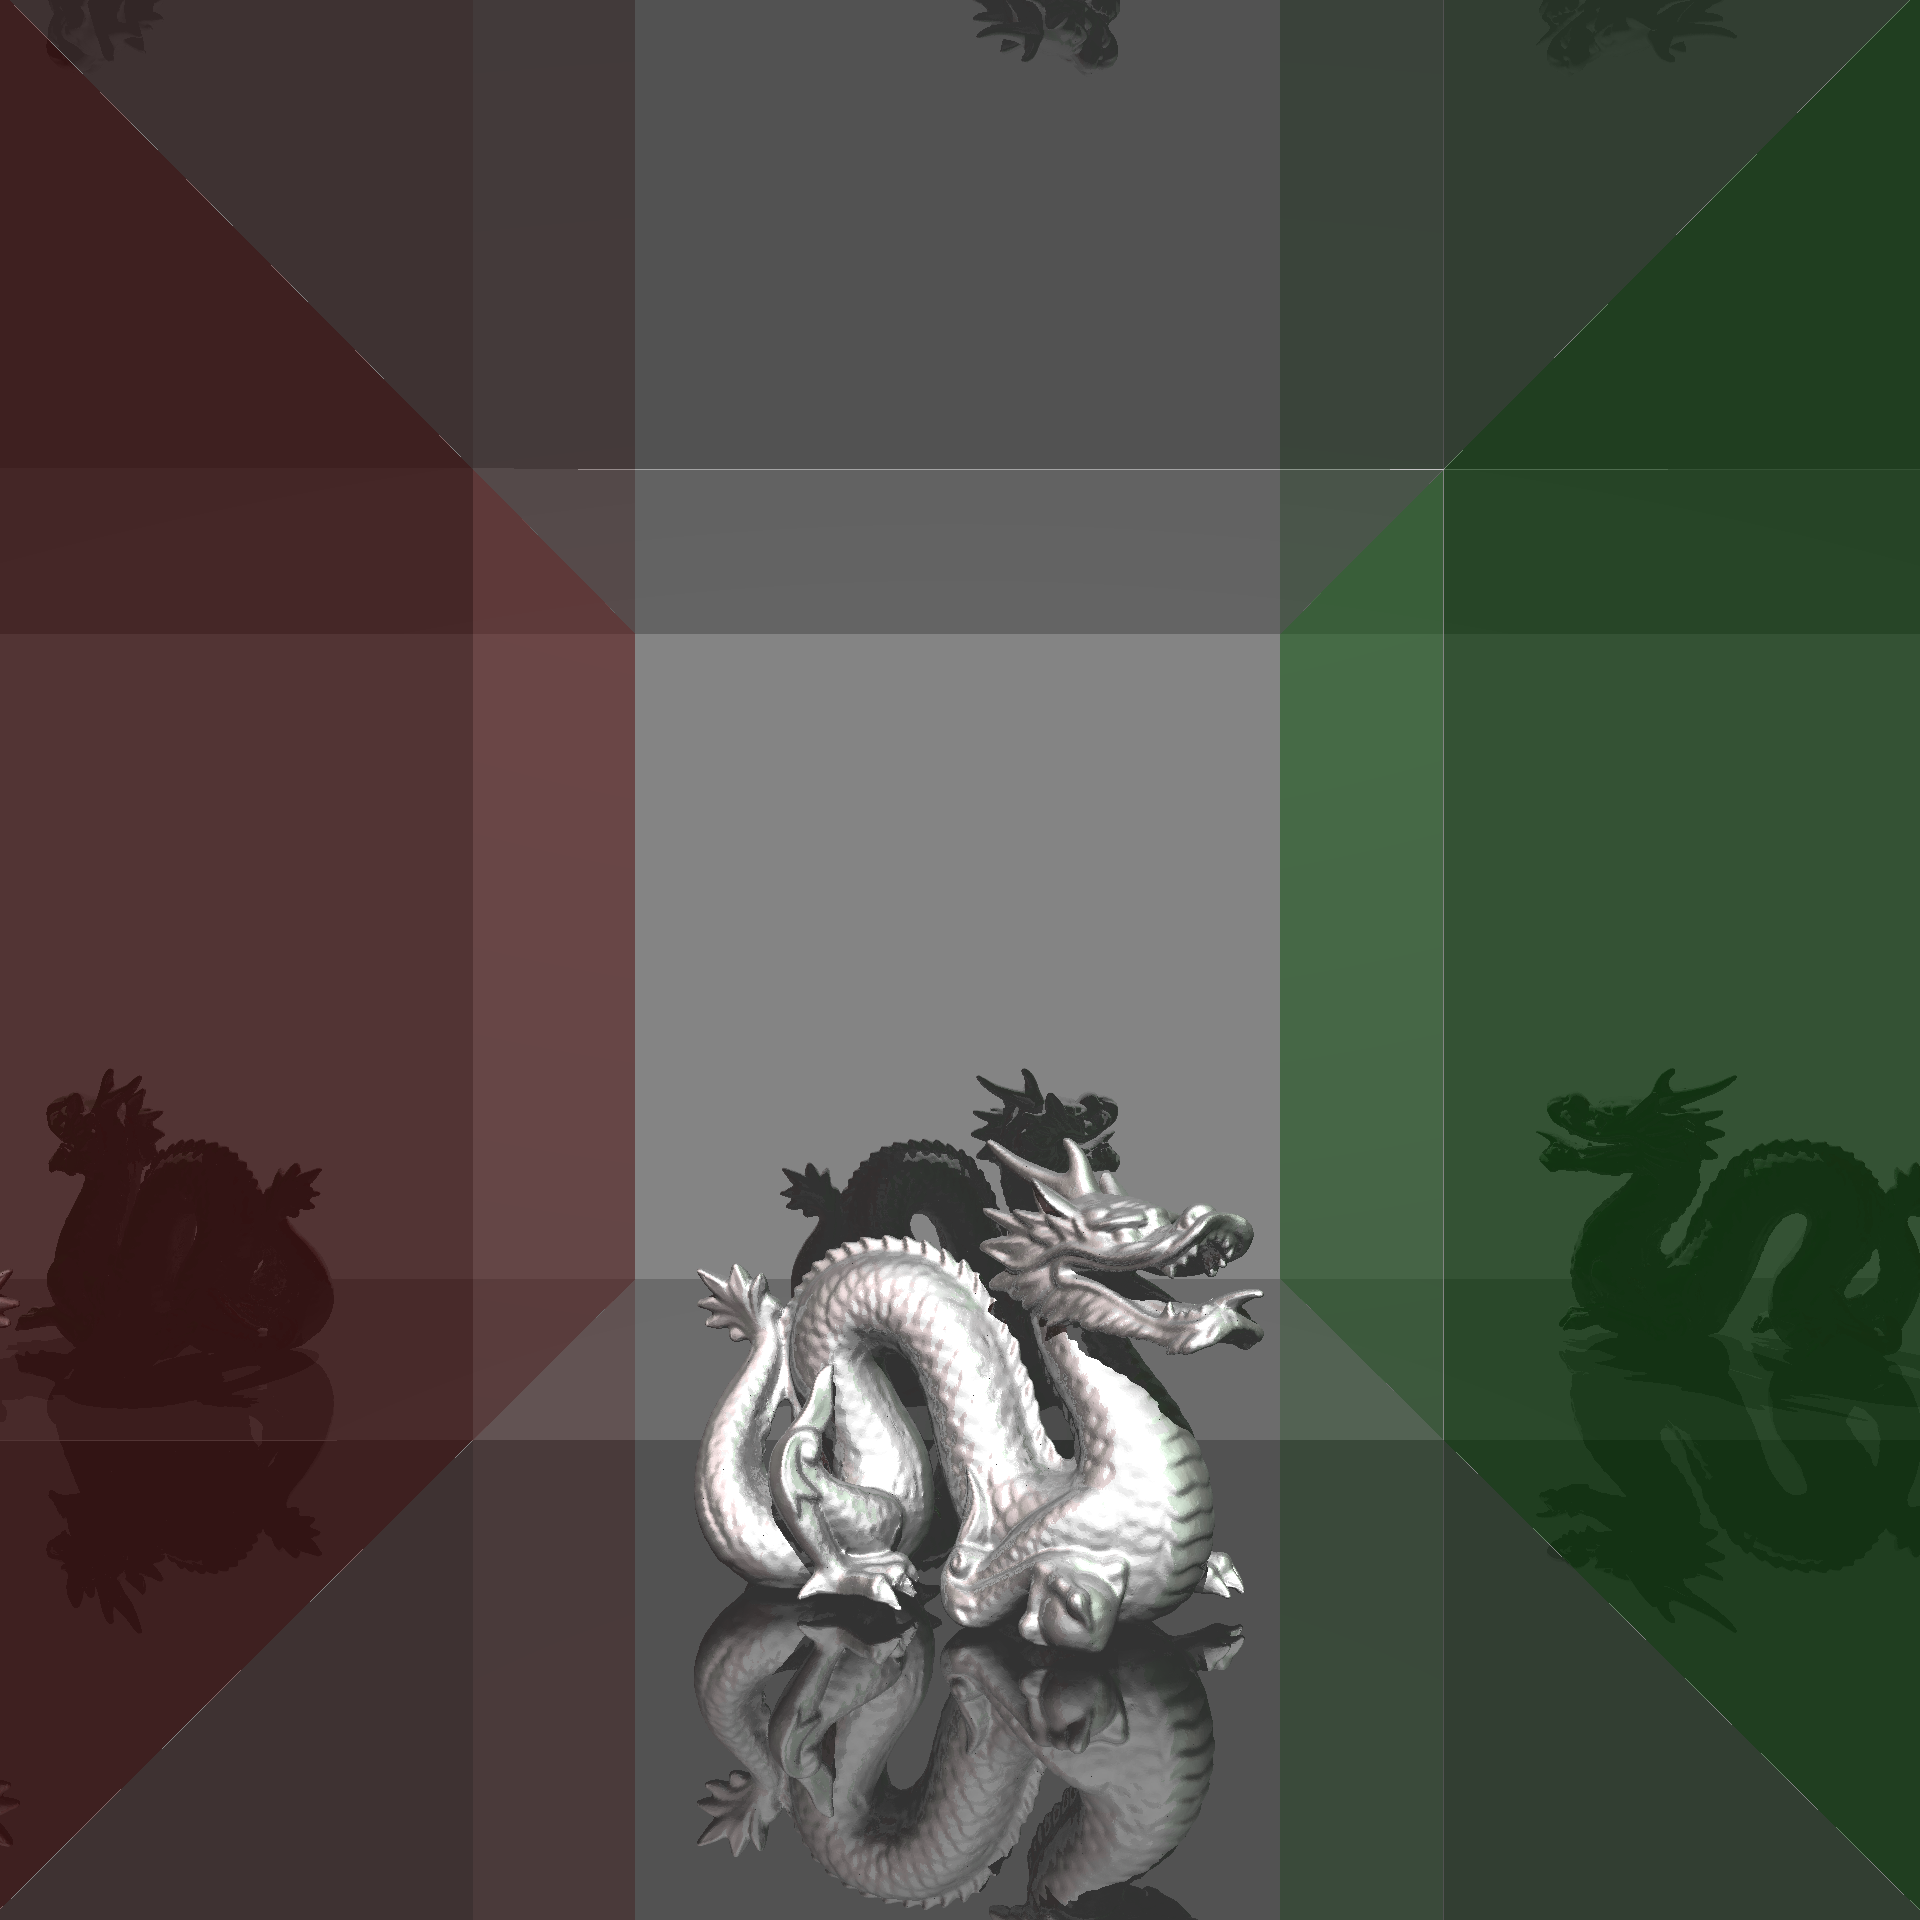
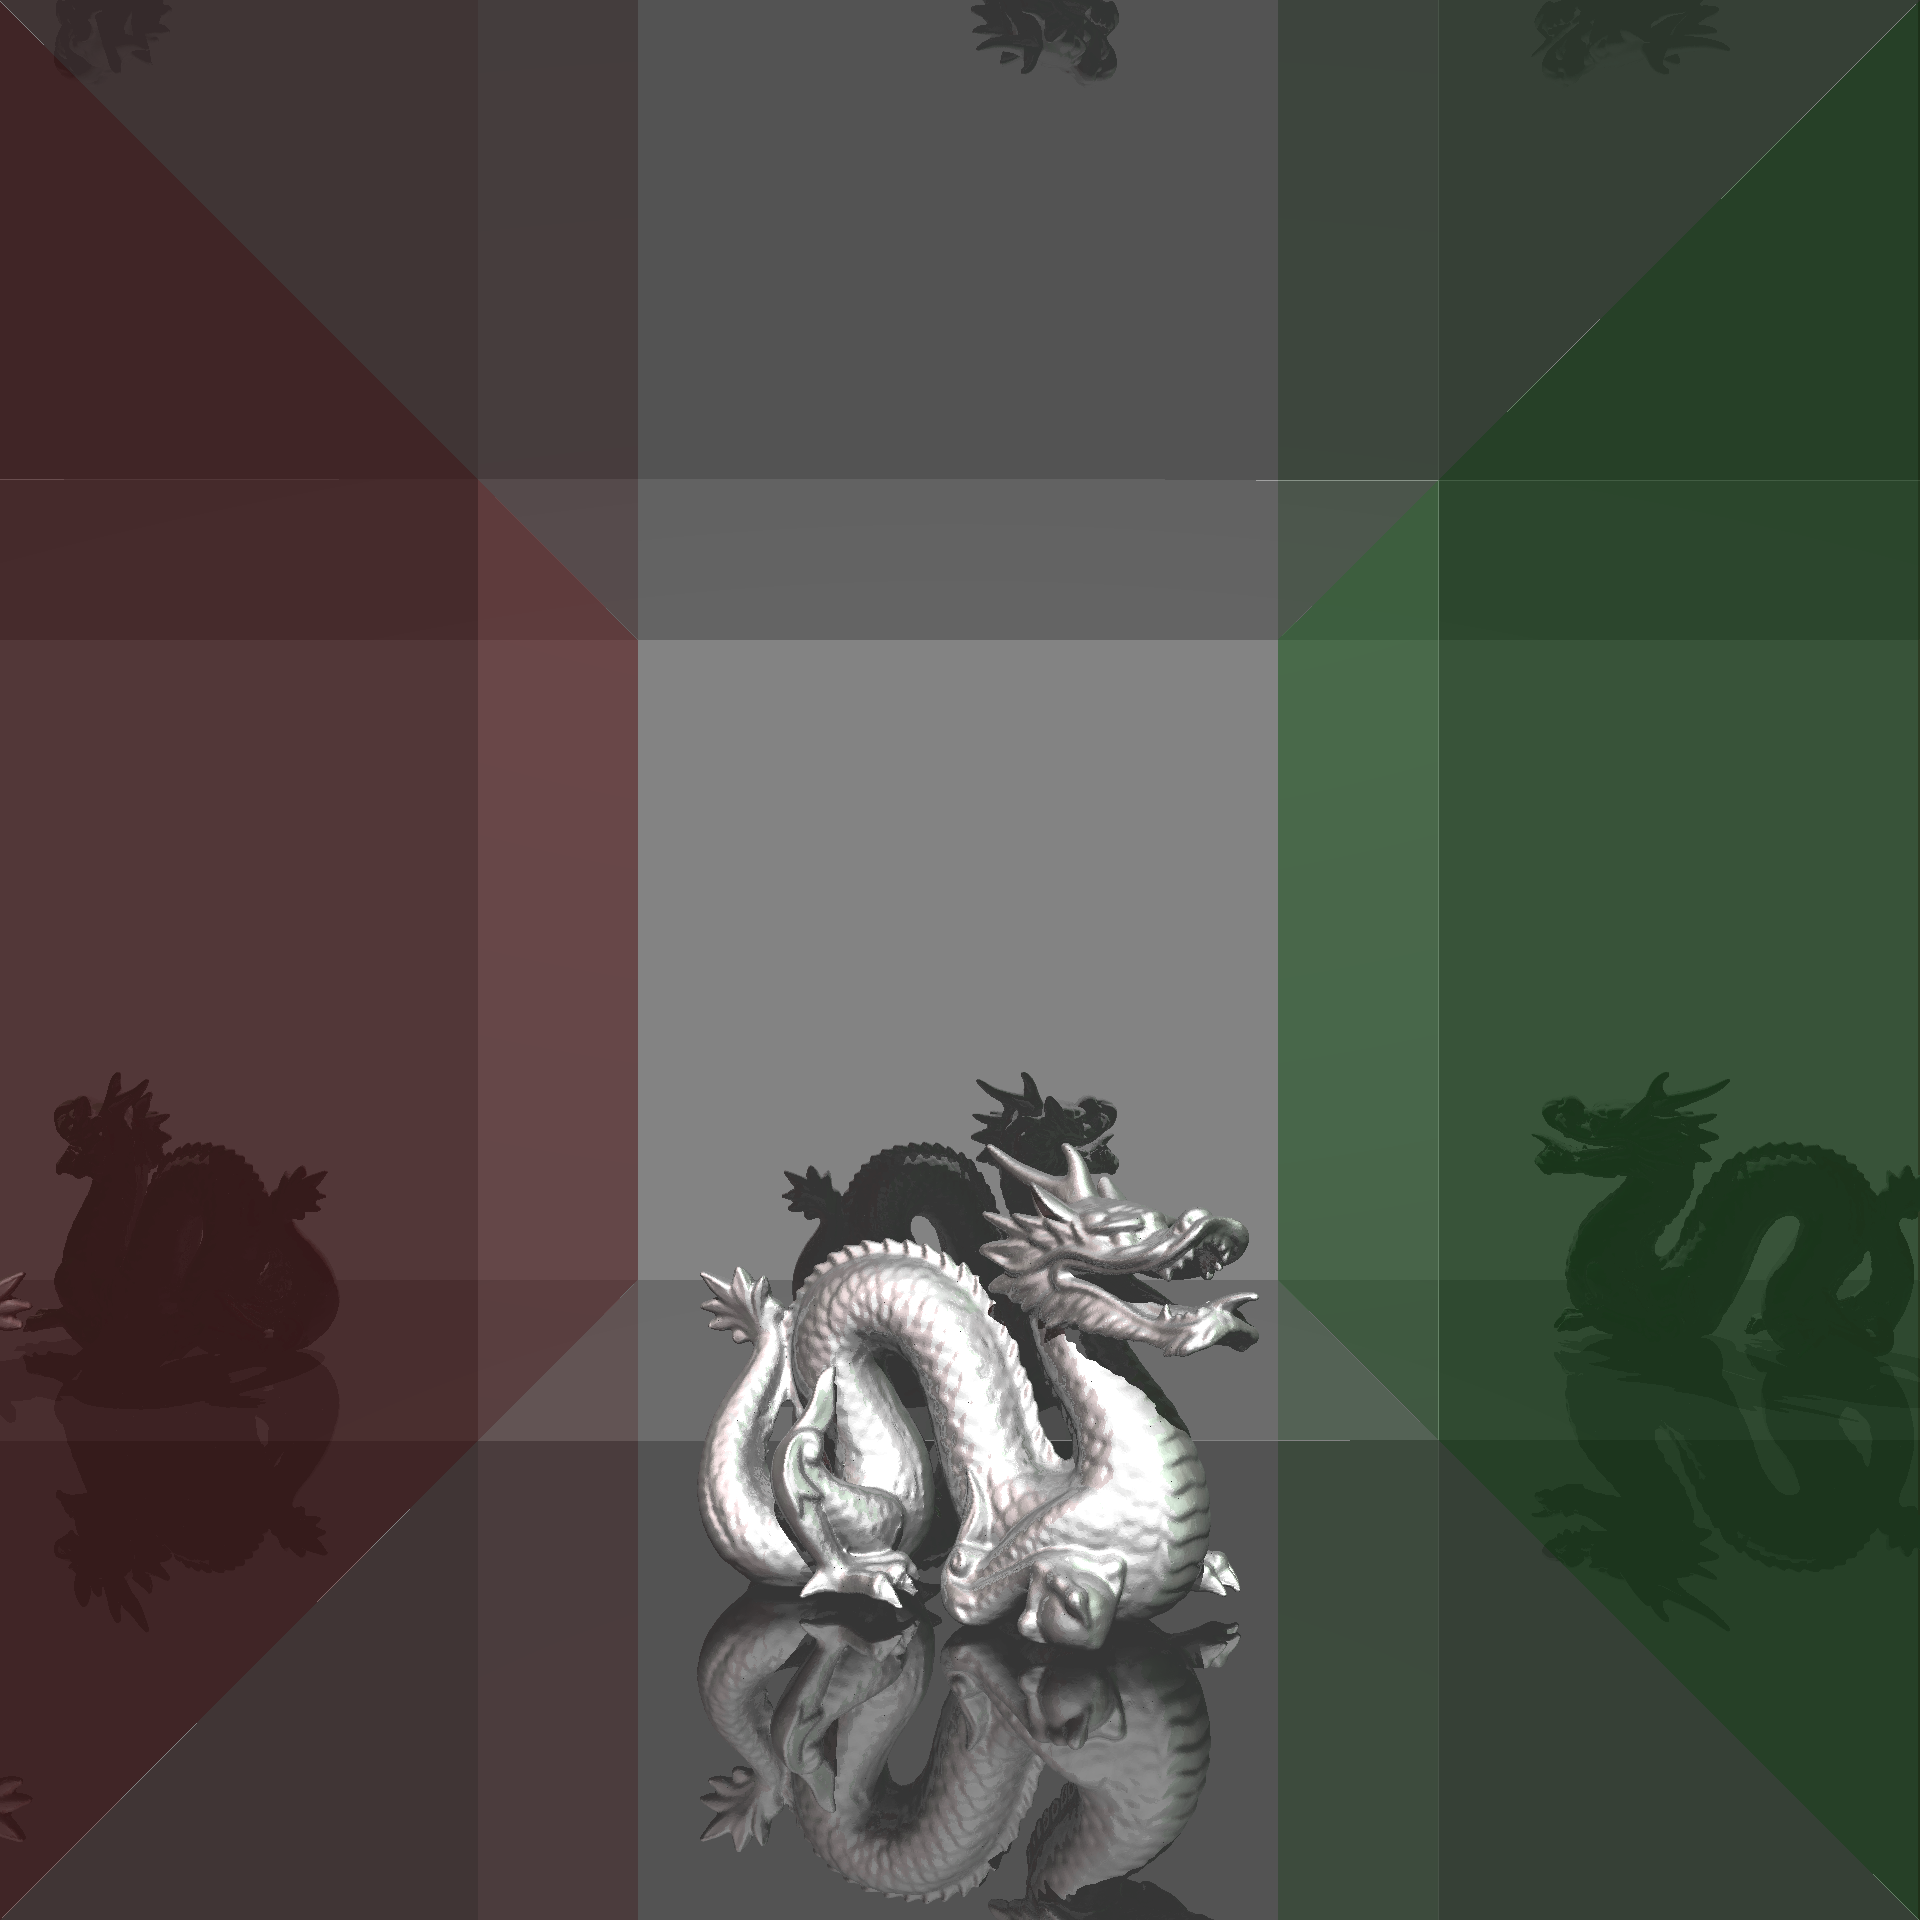
Results

diff --git a/tools/plot.py b/tools/plot.py
@@ -1,34 +1,65 @@
 import matplotlib.pyplot as plt
 from math import sqrt
 from statistics import mean, stdev
+import numpy as np
+
+def from_file(path):
+    with open(path, "r") as file:
+        data = file.readline().split()
+        data = [float(entry) for entry in data]
+        return data
 
 plt.rcdefaults()
+plt.figure(figsize=(8, 8))
 fig, ax = plt.subplots()
 
-platforms = ["CPU", "GPU"]
-teapot_cpu = [4.172, 5.072, 4.94, 4.448, 4.491, 5.248, 4.326, 4.056, 3.89, 4.271]
-teapot_gpu = [1.832, 1.797, 1.773, 1.773, 1.736, 1.769, 1.741, 1.794, 1.769, 1.751]
-suzanne_cpu = [17.632, 16.388, 18.028, 16.906, 16.647, 17.208, 16.197, 18.166, 20.569, 17.074]
-suzanne_gpu = [4.194, 4.233, 3.99, 3.993, 3.99, 3.993, 4.037, 4.01, 4.025, 3.971]
-bunny_cpu = [95.407, 92.625, 91.566, 93.711, 90.759, 90.324, 89.377, 91.252, 93.399, 92.186]
-bunny_gpu = [16.108, 16.381, 15.984, 17.441, 17.731, 16.704, 16.452, 16.764, 16.366, 16.773]
-serapis_cpu = [172.865, 173.803, 174.224, 166.878, 168.729, 169.151, 167.748, 166.952, 159.985, 164.973]
-serapis_gpu = [28.425, 27.199, 28.15, 29.601, 28.324, 28.22, 28.198, 29.528, 28.153, 28.118]
-box_cpu = [19.416, 19.191, 19.646, 18.584, 19.258, 19.155, 19.616, 22.248, 20.167, 21.148]
-box_gpu = [8.119, 7.926, 8.019, 8.465, 8.291, 7.976, 7.759, 7.827, 8.253, 8.252]
-boxa_cpu = [414.005, 425.796, 410.866, 402.01, 401.535, 401.937, 399.682, 428.186, 428.574, 423.707]
-boxa_gpu = [85.125, 84.762, 84.978, 85.61, 84.46, 82.945, 85.696, 83.766, 83.042, 81.385]
+bunny_cpu = mean(from_file("data/bunny_cpu.txt"))
+bunny_gpu = mean(from_file("data/bunny_gpu.txt"))
+erato_cpu = mean(from_file("data/erato_cpu.txt"))
+erato_gpu = mean(from_file("data/erato_gpu.txt"))
+dragon_cpu = mean(from_file("data/dragon_cpu.txt"))
+dragon_gpu = mean(from_file("data/dragon_gpu.txt"))
+aurelius_cpu = mean(from_file("data/aurelius_cpu.txt"))
+aurelius_gpu = mean(from_file("data/aurelius_gpu.txt"))
 
-d1 = boxa_cpu
-d2 = boxa_gpu
+scenes = ["Stanford Bunny\n(144k)", "Erato\n(412k)", "Stanford Dragon\n(871k)", "Marcus Aurelius\n(1704k)"]
+x = np.arange(len(scenes))
+cpu = [bunny_cpu, erato_cpu, dragon_cpu, aurelius_cpu]
+gpu = [bunny_gpu, erato_gpu, dragon_gpu, aurelius_gpu]
 
-error = [stdev(d1) / sqrt(len(d1)), stdev(d2) / sqrt(len(d2))]
-print(f"Speedup: {(mean(d1) / mean(d2)):.2f}")
+WIDTH = 0.3
 
-ax.barh(platforms, [mean(d1), mean(d2)], xerr=error, align='center')
-ax.invert_yaxis()
-ax.set_xlabel('Seconds')
-ax.set_title('Cornell Box - Stanford Bunny (512x512)')
+plt.bar(x,         cpu, WIDTH, label="CPU", color="g")
+plt.bar(x + WIDTH, gpu, WIDTH, label="GPU", color="r")
 
-plt.savefig("plots/boxa.png")
-plt.savefig("plots/boxa.pdf")
+plt.xticks(x + WIDTH / 2, scenes, fontsize=8)
+plt.xlabel("Scenes")
+plt.ylabel("Time (Seconds)")
+plt.title("Render Times")
+plt.legend()
+plt.savefig("plots/render.png", dpi=1200)
+
+plt.cla()
+plt.clf()
+
+fig, ax = plt.subplots()
+
+speedup = [bunny_gpu/bunny_cpu, erato_gpu/erato_cpu, dragon_gpu/dragon_cpu, aurelius_gpu/aurelius_cpu]
+speedup_below = [
+    mean(speedup), 
+    mean(speedup), 
+    mean(speedup), 
+    aurelius_gpu/aurelius_cpu
+]
+
+plt.bar(x, speedup,       WIDTH, color="r")
+plt.bar(x, speedup_below, WIDTH)
+ax.axhline(mean(speedup), color="grey", label="Mean")
+
+plt.ylim(0, 5)
+plt.xticks(x, scenes, fontsize=8)
+plt.xlabel("Scenes")
+plt.ylabel("Factor")
+plt.title("Speedup")
+plt.legend()
+plt.savefig("plots/speedup.png", dpi=1200)

diff --git a/src/main.cpp b/src/main.cpp
@@ -2,6 +2,7 @@
 #include <iostream>
 #include <thread>
 #include <chrono>
+#include <iomanip>
 
 #define CANVAS_PATH "out/canvas.ppm"
 #define CANVAS_WIDTH  1920
@@ -36,23 +37,30 @@ int main() {
     int start = -CANVAS_WIDTH / 2;
     int step = CANVAS_WIDTH / threadsSize;
 
-    auto bmStart = high_resolution_clock::now();
+    std::cout << std::fixed << std::setprecision(3);
 
-    for (int i = 0; i < threadsSize; i++) {
-        threads.push_back(thread(render, scene, start, start + step));
-        start += step;
+    for (size_t n = 0; n < 30; n++) {
+        auto bmStart = high_resolution_clock::now();
+
+        for (int i = 0; i < threadsSize; i++) {
+            threads.push_back(thread(render, scene, start, start + step));
+            start += step;
+        }
+
+        for (int i = 0; i < threadsSize; i++) {
+            threads[i].join();
+        }
+
+        auto bmStop = high_resolution_clock::now();
+        auto bmDuration = duration_cast<milliseconds>(bmStop - bmStart);
+
+        std::cout << static_cast<double>(bmDuration.count()) / 1000 << " ";
+
+        threads.clear();
+        start = -CANVAS_WIDTH / 2;
     }
 
-    for (int i = 0; i < threadsSize; i++) {
-        threads[i].join();
-    }
-
-    auto bmStop = high_resolution_clock::now();
-    auto bmDuration = duration_cast<milliseconds>(bmStop - bmStart);
-
-    std::cout << "[ RTX ] " 
-              << static_cast<double>(bmDuration.count()) / 1000 
-              << " seconds.\n";
+    std::cout << "\n";
 
     try {
         saveCanvas();

diff --git a/include/scene.hpp b/include/scene.hpp
@@ -299,7 +299,7 @@ Scene Scene::erato() {
 Scene Scene::dragon() {
     Scene scene = {
         {1, 1, 1}, 
-        {-0.0425, 0.7, -2.975}, 
+        {-0.0425, 0.7115, -3.01725}, 
         {0, 0.1, 0}, 
         {255, 255, 255}, 
         parseOBJ("scenes/dragon.obj"), 
